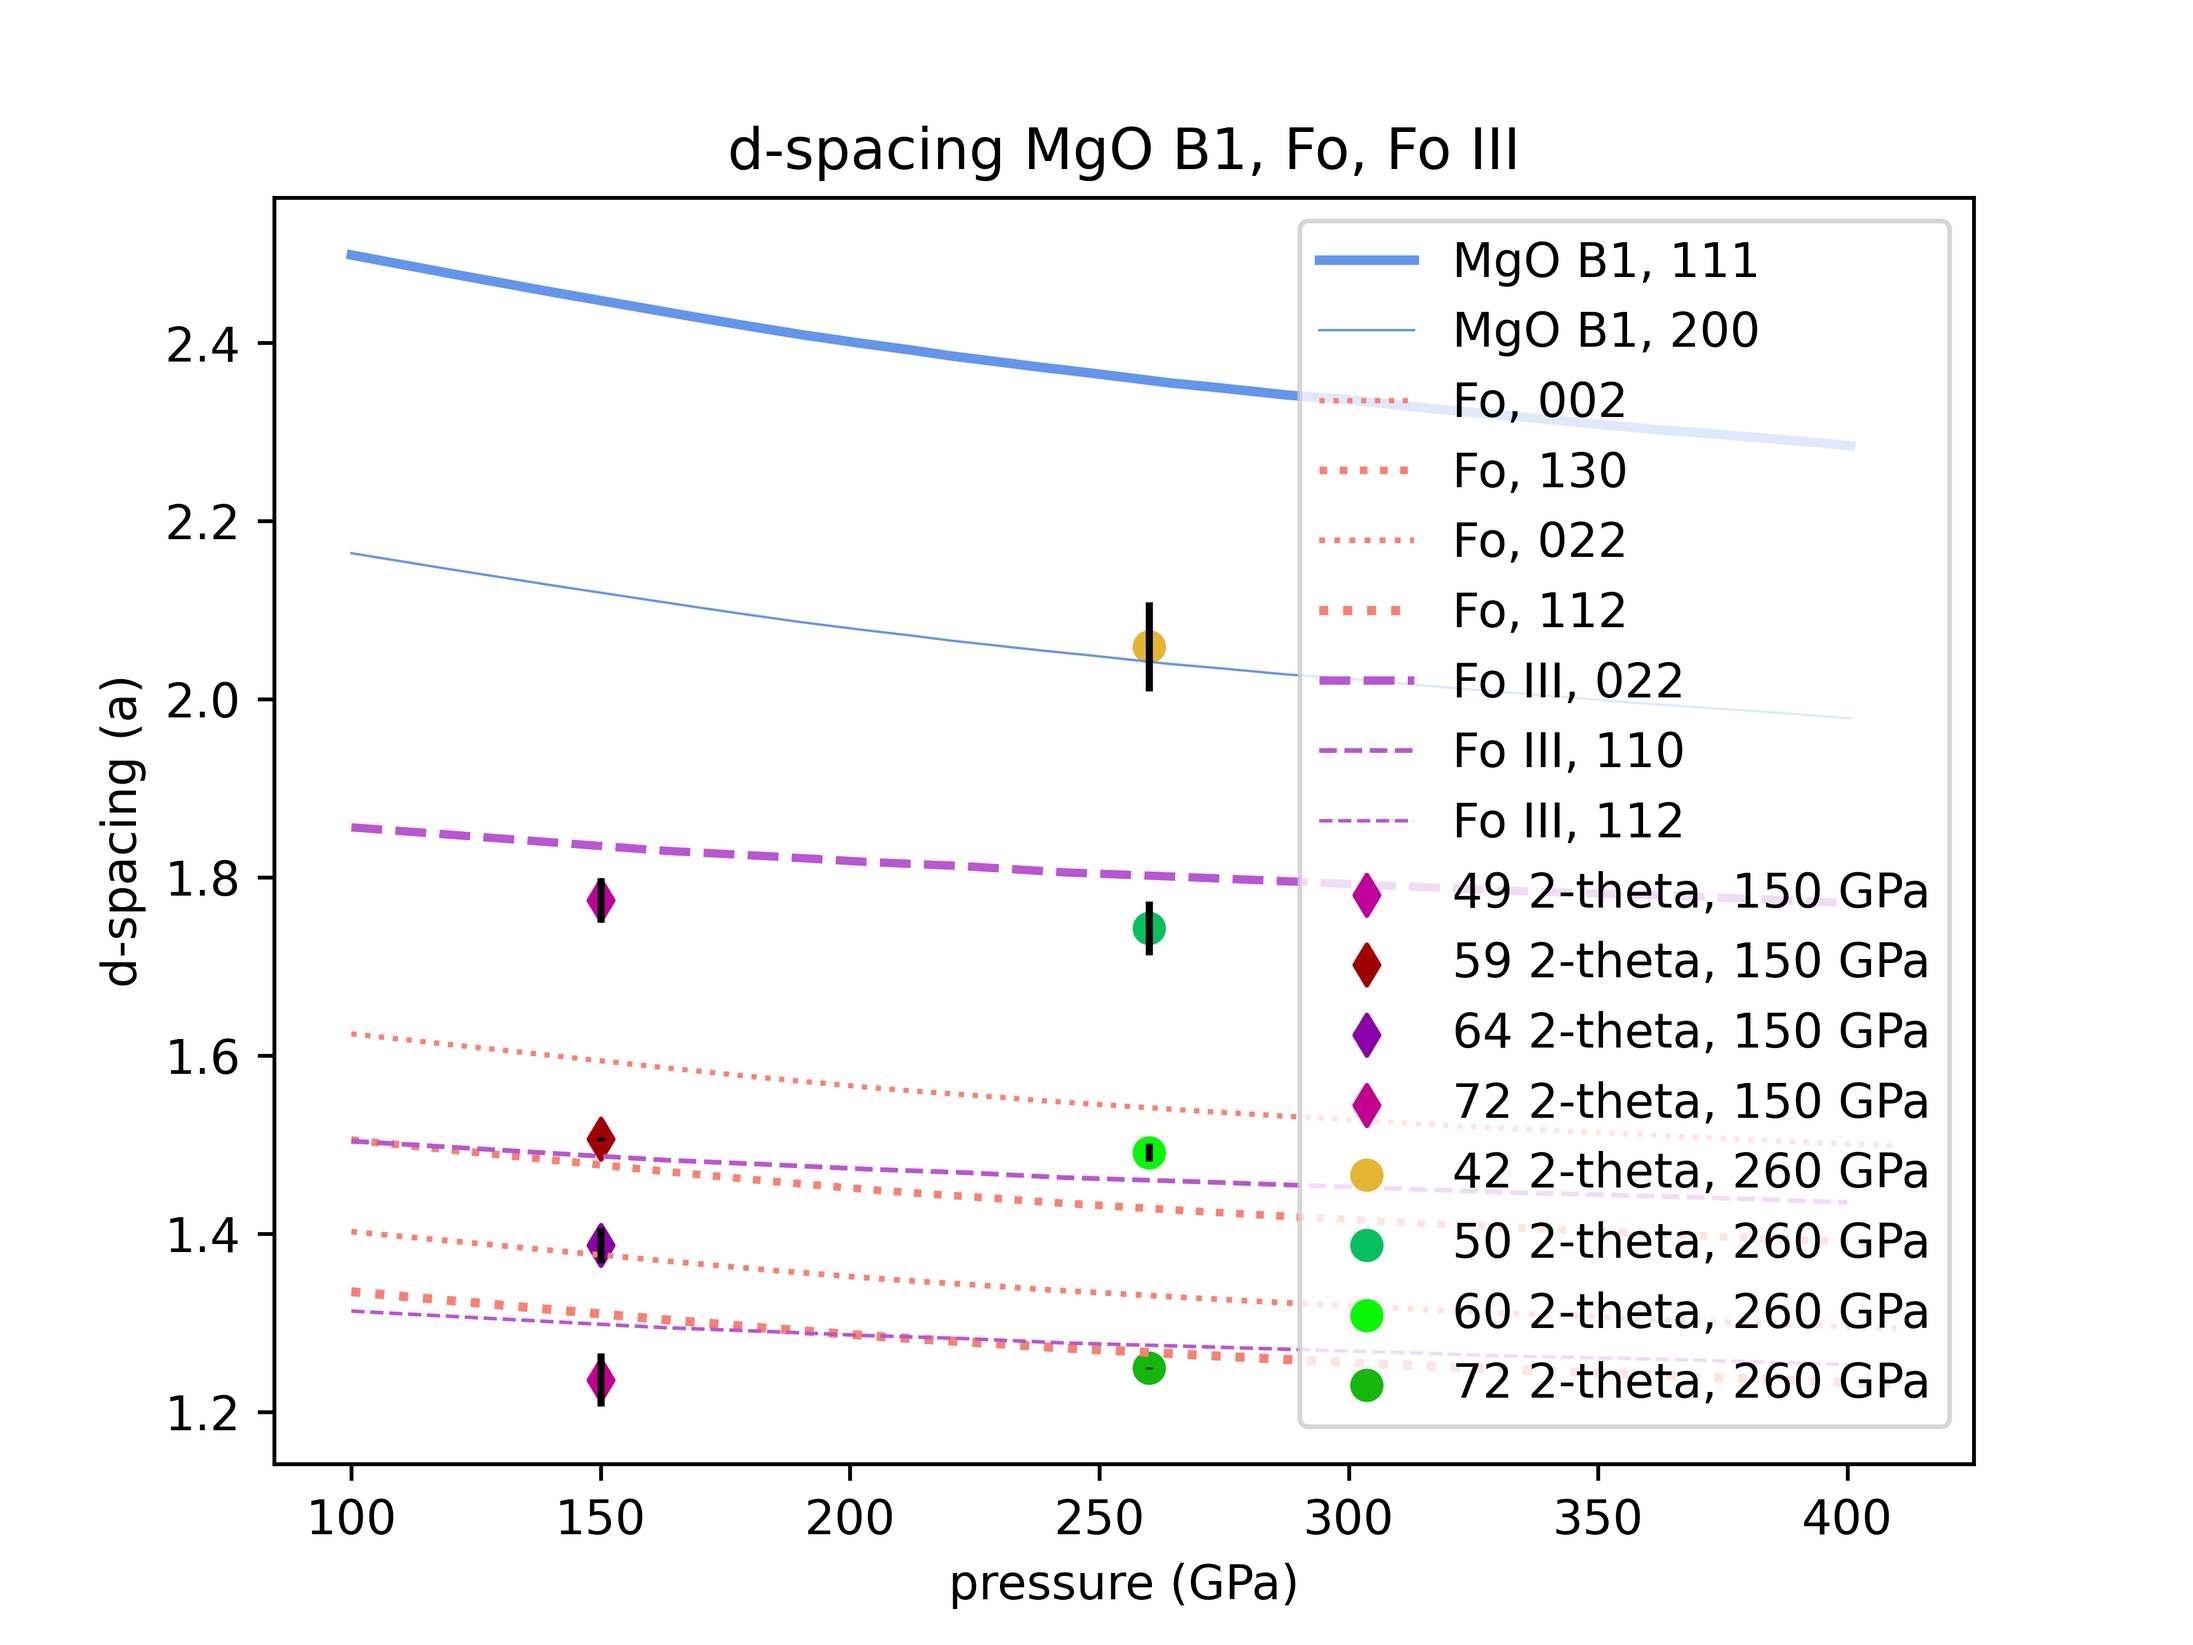
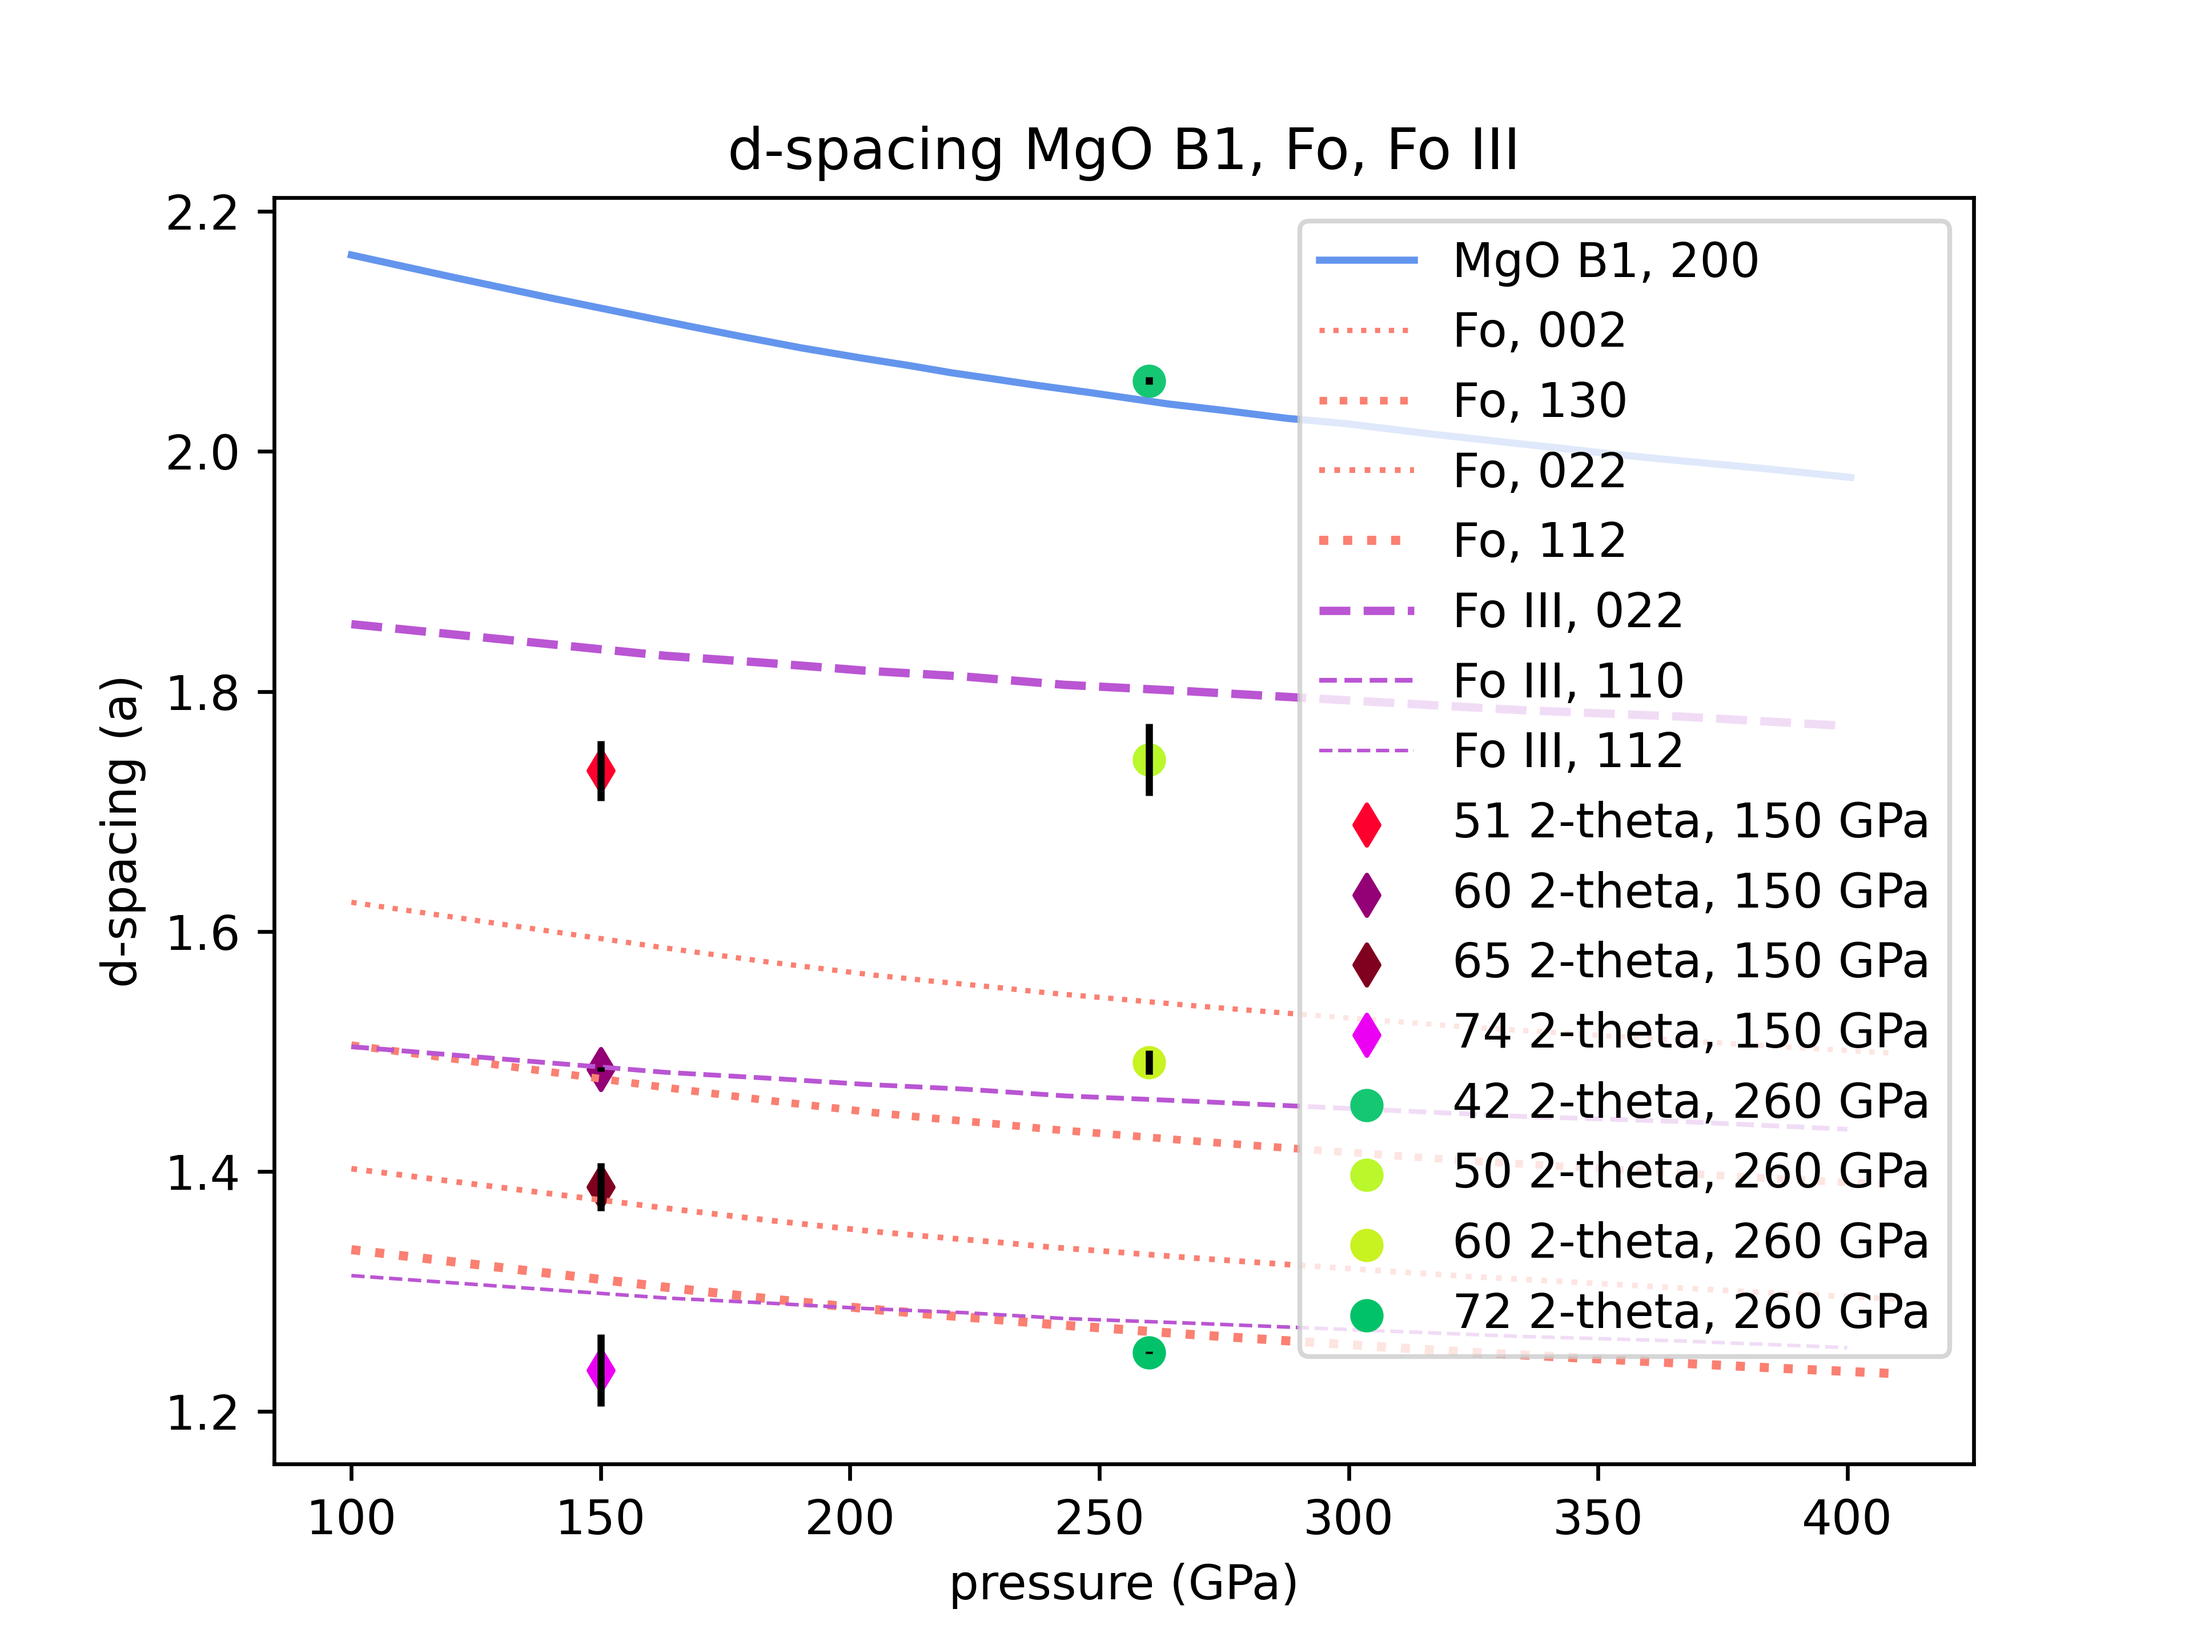
updates

diff --git a/really_really_combined_graph/make_combined_graph.py b/really_really_combined_graph/make_combined_graph.py
@@ -13,11 +13,11 @@ bIII = 8.596
 cIII = 9.04
 pressure_lower = 150
 pressure_higher = 260
-reflections_MgO = [["111",2],["200",0.5]]
+reflections_MgO = [["200",1.5]]
 reflections_Fo = [["002",1.1],["130",1.6],["022",1.2],["112",1.9]]
 reflections_FoIII = [["022",1.75],["110",1],["112",0.75]]
-points_lower = {"49":[1.774,0.025],"59":[1.506,0.002],"64":[1.387,0.02],"72":[1.236,0.03]}
-points_higher = {"42":[2.059,0.05],"50":[1.743,0.03],"60":[1.491,0.01],"72":[1.249,0.001]}
+points_lower = {"51":[1.734,0.025],"60":[1.485,0.002],"65":[1.387,0.02],"74":[1.234,0.03]}
+points_higher = {"42":[2.059,0.003],"50":[1.743,0.03],"60":[1.491,0.01],"72":[1.249,0.001]}
 #points = for higher {"35":[2.461,0.001,"silver"],"42":[2.059,0.002,"crimson"],"50":[1.743,0.001,"darkorange"],"60":[1.491,0.001,"darkgreen"],"72":[1.249,0.001,"blue"],"76":[1.205,0.0002,"silver"]}
 #points = for lower {"49":[1.774,0.0002,"crimson"],"59":[1.506,0.0002,"darkorange"],"64":[1.387,0.01,"darkgreen"],"69":[1.307,0.001,"blue"],"74":[1.236,0.0001,"purple"]}
 def dspacing_cubic(rho,x,orientation,m):
